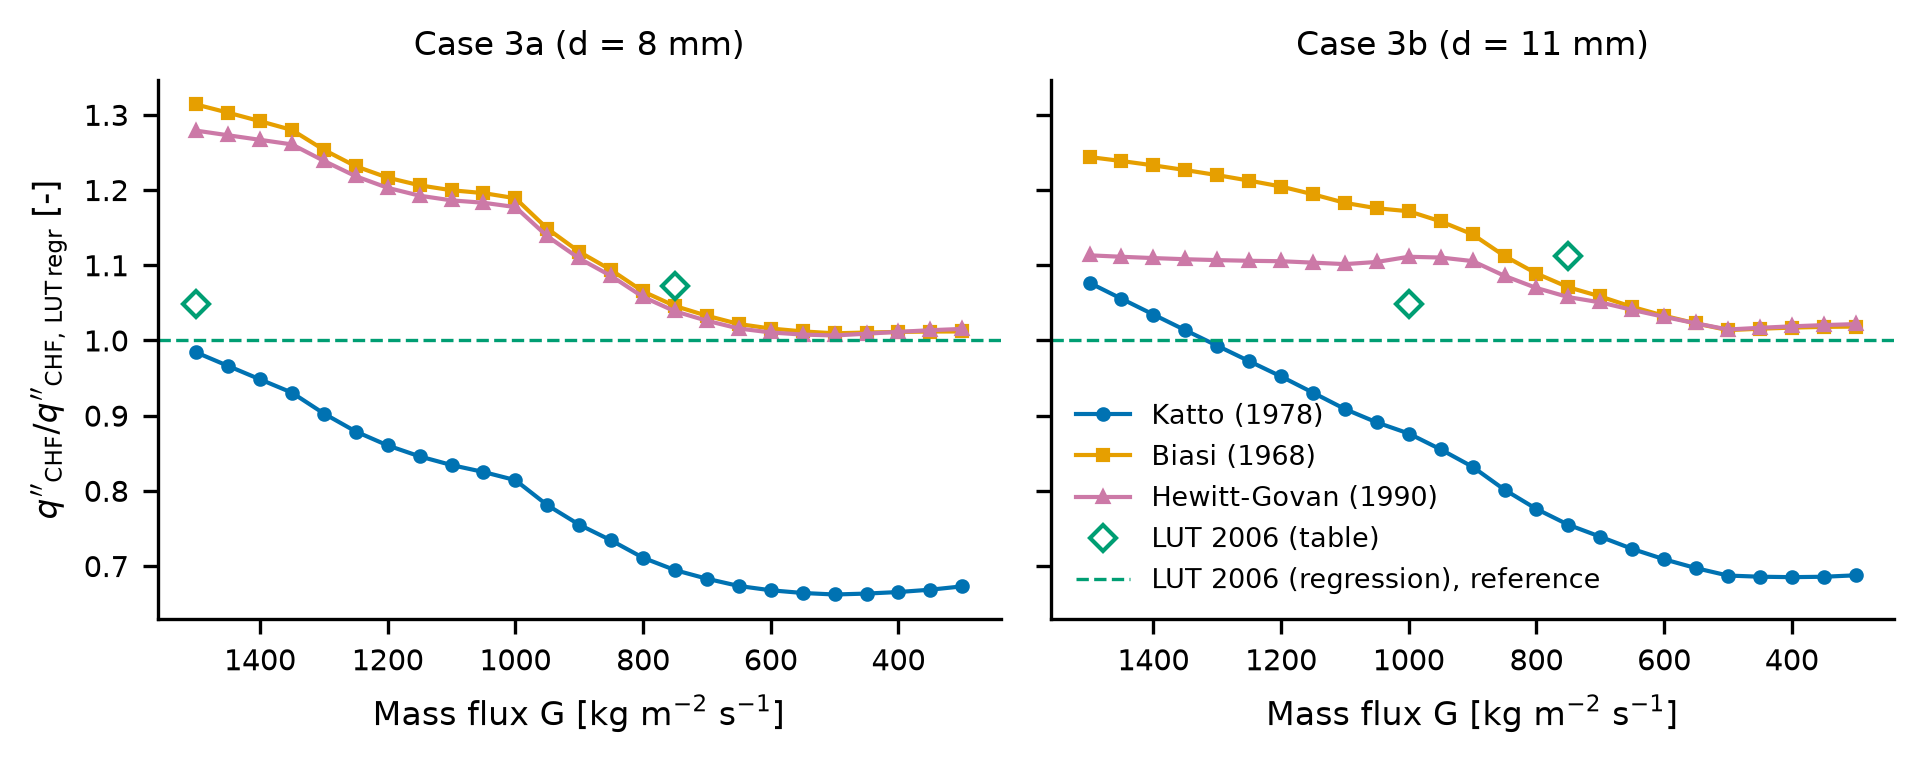
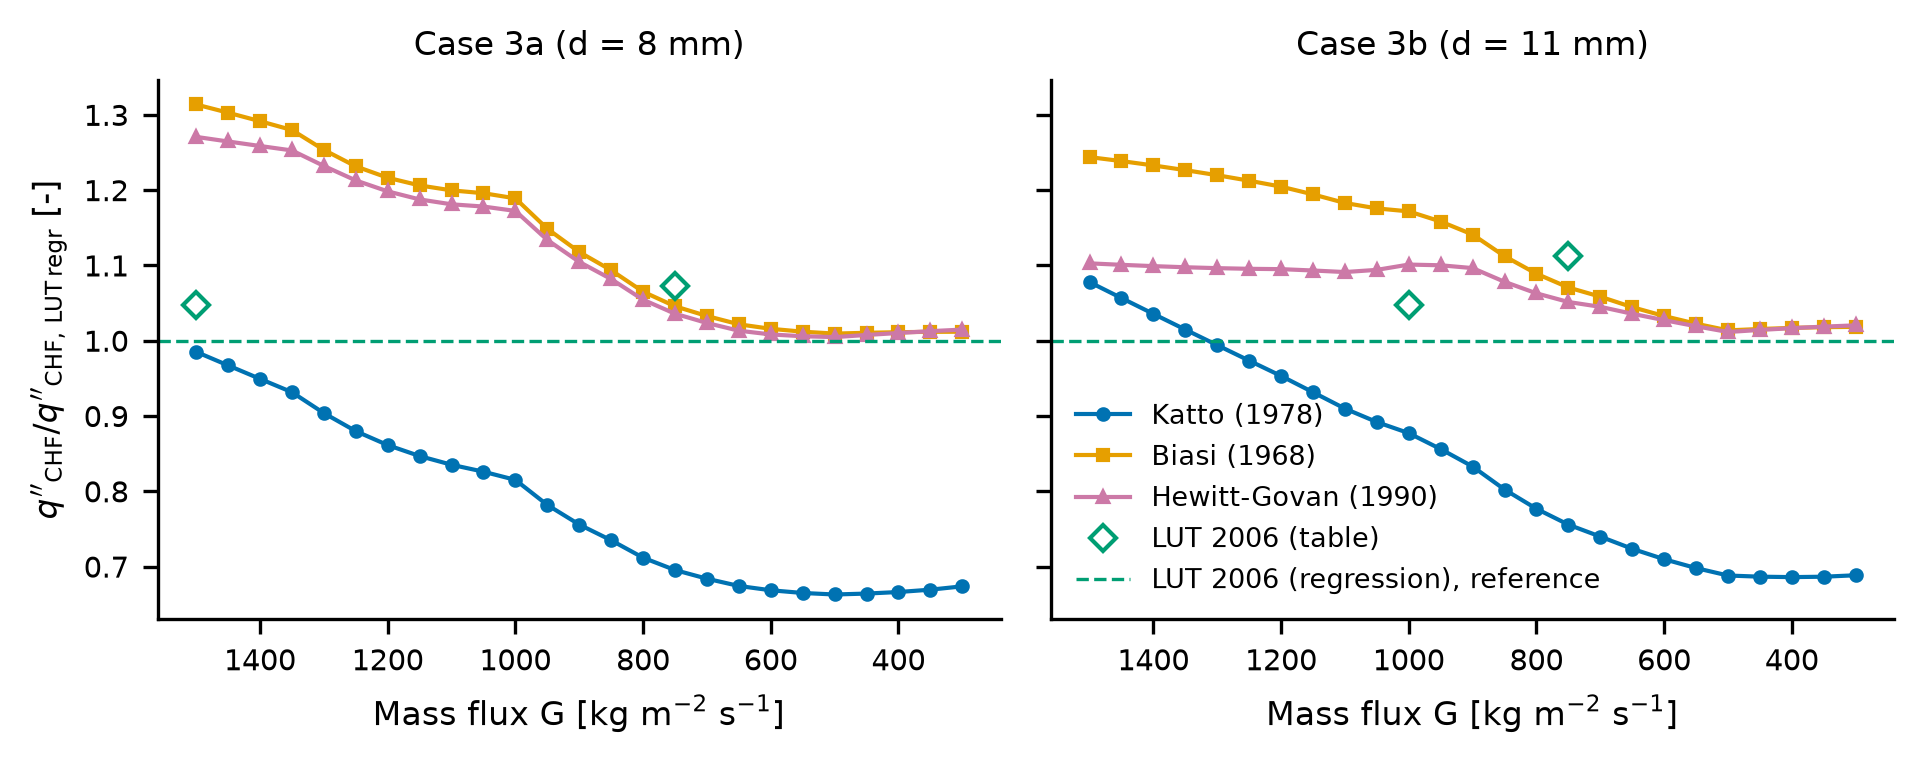
water properties table revised, katto code typo error corrected

diff --git a/water_properties.py b/water_properties.py
@@ -18,17 +18,10 @@ cp_l    J/(kg*K)
 eta_l   Pa*s
 eta_v   Pa*s
 
-Reference anchor points (IAPWS-IF97):
-  P[MPa]  T_sat[degC]  rho_l   rho_v   H_fg[kJ/kg]  sigma[mN/m]  cp_l[kJ/kgK]  eta_l[uPa*s]  eta_v[uPa*s]
-  4.0      250.4      799.2   20.09   1714.0        26.00        4.864          109.0          15.6
-  5.0      263.9      777.0   25.77   1639.7        22.91        4.987          101.0          16.3
-  6.0      275.6      756.1   31.89   1570.5        20.00        5.147           95.0          17.0
-  7.0      285.8      736.0   38.55   1505.2        17.24        5.350           89.0          17.7
-  7.5      290.5      725.4   42.23   1472.2        15.93        5.472           87.0          18.0
-  8.0      295.0      714.5   46.19   1438.3        14.64        5.616           85.0          18.3
-  8.5      299.3      703.2   50.46   1403.6        13.38        5.789           83.0          18.7
-  9.0      303.3      691.5   55.10   1367.6        12.14        5.999           80.0          19.0
- 10.0      311.0      667.6   65.44   1293.0         9.80        6.518           75.0          19.8
+Reference anchor points generated with the `iapws` Python package
+(IAPWS-IF97 for T_sat, densities, enthalpies and cp; IAPWS releases for
+surface tension and viscosity). Max linear-interpolation error vs. the
+direct IAPWS evaluation over 4-10 MPa: < 0.3 % for all properties.
 """
 
 from dataclasses import dataclass
@@ -51,15 +44,15 @@ class SatProps:
 
 # Table: [P_MPa, T_sat_C, rho_l, rho_v, H_fg_Jkg, sigma_Nm, cp_l_JkgK, eta_l_Pas, eta_v_Pas]
 _TABLE = np.array([
-    [4.0,  250.4, 799.2,  20.09, 1714.0e3, 26.00e-3, 4864.0, 109.0e-6, 15.6e-6],
-    [5.0,  263.9, 777.0,  25.77, 1639.7e3, 22.91e-3, 4987.0, 101.0e-6, 16.3e-6],
-    [6.0,  275.6, 756.1,  31.89, 1570.5e3, 20.00e-3, 5147.0,  95.0e-6, 17.0e-6],
-    [7.0,  285.8, 736.0,  38.55, 1505.2e3, 17.24e-3, 5350.0,  89.0e-6, 17.7e-6],
-    [7.5,  290.5, 725.4,  42.23, 1472.2e3, 15.93e-3, 5472.0,  87.0e-6, 18.0e-6],
-    [8.0,  295.0, 714.5,  46.19, 1438.3e3, 14.64e-3, 5616.0,  85.0e-6, 18.3e-6],
-    [8.5,  299.3, 703.2,  50.46, 1403.6e3, 13.38e-3, 5789.0,  83.0e-6, 18.7e-6],
-    [9.0,  303.3, 691.5,  55.10, 1367.6e3, 12.14e-3, 5999.0,  80.0e-6, 19.0e-6],
-    [10.0, 311.0, 667.6,  65.44, 1293.0e3,  9.80e-3, 6518.0,  75.0e-6, 19.8e-6],
+    [ 4.0, 250.36,  798.4,  20.09,  1713.5e3, 25.96e-3,   4869.0, 106.1e-6, 17.4e-6],
+    [ 5.0, 263.94,  777.4,  25.35,  1639.7e3, 22.76e-3,   5032.0, 100.1e-6, 18.0e-6],
+    [ 6.0, 275.59,  758.0,  30.82,  1570.8e3, 20.03e-3,   5208.0,  95.3e-6, 18.4e-6],
+    [ 7.0, 285.83,  739.7,  36.52,  1505.1e3, 17.63e-3,   5400.0,  91.3e-6, 18.9e-6],
+    [ 7.5, 290.54,  730.9,  39.48,  1473.1e3, 16.54e-3,   5504.0,  89.5e-6, 19.1e-6],
+    [ 8.0, 295.01,  722.2,  42.50,  1441.5e3, 15.51e-3,   5614.0,  87.7e-6, 19.3e-6],
+    [ 8.5, 299.27,  713.6,  45.61,  1410.3e3, 14.53e-3,   5730.0,  86.1e-6, 19.5e-6],
+    [ 9.0, 303.35,  705.2,  48.80,  1379.2e3, 13.60e-3,   5854.0,  84.6e-6, 19.8e-6],
+    [10.0, 311.00,  688.4,  55.45,  1317.6e3, 11.86e-3,   6127.0,  81.7e-6, 20.2e-6],
 ])
 
 

diff --git a/models/katto1978.py b/models/katto1978.py
@@ -61,9 +61,9 @@ def _detect_regime(rho_ratio: float, l_over_d: float, We_inv: float,
     """
     C_LH = 0.29 if fluid.lower() == 'freon' else 0.40
 
-    # L/H boundary (eq. 16)
-    rhs_LH = C_LH * (rho_ratio**0.133) * (We_inv**-0.29) - 0.0031
-    if l_over_d > rhs_LH:
+   # L/H boundary (eq. 16)
+    den_LH = C_LH * (rho_ratio**0.133) * (We_inv**0.29) - 0.0031
+    if den_LH <= 0.0 or l_over_d > 1.0 / den_LH:
         return 'L'
 
     # H/HP boundary (eq. 19)
@@ -75,7 +75,7 @@ def _detect_regime(rho_ratio: float, l_over_d: float, We_inv: float,
 
     # H/N boundary (eq. 18)
     rhs_HN = 0.77 / (We_inv**0.37)
-    if l_over_d > rhs_HN:
+    if l_over_d < rhs_HN:
         return 'N'
 
     return 'H'
@@ -89,7 +89,7 @@ def _qc0(regime: str, G: float, H_fg: float,
         C = 0.34 if fluid.lower() == 'freon' else 0.25
         return C * G * H_fg * (We_inv**0.043) / l_over_d
     if regime == 'H':
-        return (G * H_fg * 0.10 * (rho_ratio**0.133) * (We_inv**1.3)
+        return (G * H_fg * 0.10 * (rho_ratio**0.133) * (We_inv**(1.0/3.0))
                 / (1.0 + 0.0031 * l_over_d))
     if regime == 'N':
         return (G * H_fg * 0.098 * (rho_ratio**0.133) * (We_inv**0.433)

diff --git a/data visualisation/steady_margin_table.tex b/data visualisation/steady_margin_table.tex
@@ -4,9 +4,9 @@
 \cmidrule(lr){2-4}\cmidrule(lr){5-7}
 Model & $q''_\mathrm{CHF}$ [MW/m$^2$] & $X_\mathrm{CHF}$ & Margin & $q''_\mathrm{CHF}$ [MW/m$^2$] & $X_\mathrm{CHF}$ & Margin \\
 \midrule
-Katto (1978) & 0.699 & 0.547 & 1.00 & 0.961 & 0.547 & 1.37 \\
+Katto (1978) & 0.700 & 0.548 & 1.00 & 0.962 & 0.548 & 1.37 \\
 Biasi (1968) & 0.933 & 0.744 & 1.33 & 1.110 & 0.639 & 1.59 \\
-Hewitt-Govan (1990) & 0.908 & 0.724 & 1.30 & 0.994 & 0.567 & 1.42 \\
+Hewitt-Govan (1990) & 0.903 & 0.719 & 1.29 & 0.984 & 0.562 & 1.41 \\
 LUT 2006 (table) & 0.744 & 0.585 & 1.06 & -- & -- & -- \\
 LUT 2006 (regression) & 0.710 & 0.557 & 1.01 & 0.893 & 0.505 & 1.28 \\
 \bottomrule
